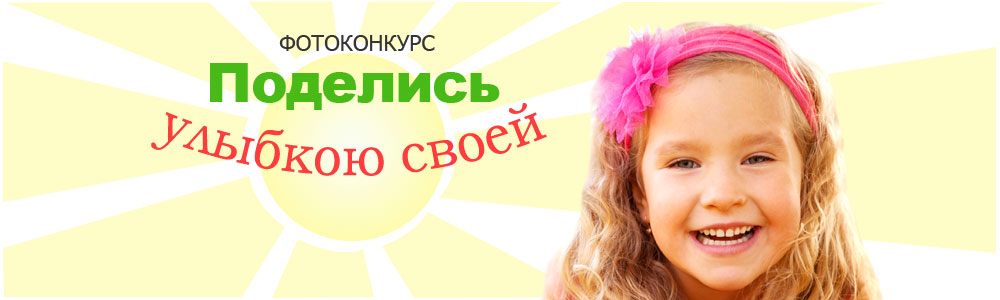
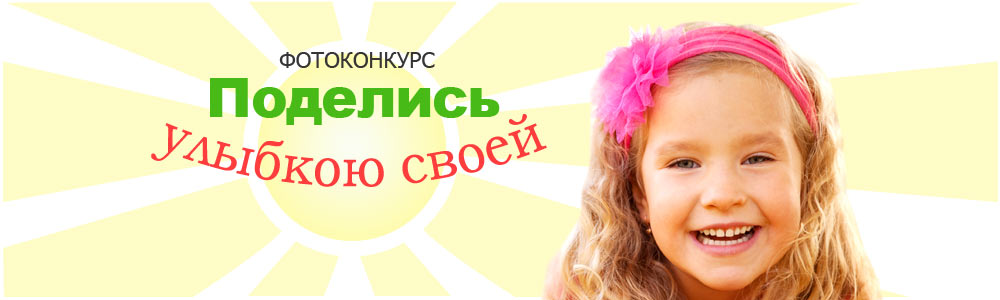
fix contest

diff --git a/stylesheets/global.css b/stylesheets/global.css
@@ -897,11 +897,11 @@ a.pseudo {text-decoration:none;border-bottom:1px dashed #0498b8;}
 #contest .section-banner .button-holder {position:absolute; left:162px;top:190px;} 
 #contest .section-banner .contest-error-hint {top:60px;margin-left:-130px;}
 #contest .section-banner {margin:-20px -30px 0;}
-#contest.contest-3 .section-banner .button-holder {position:absolute; left:216px;top:193px;}
-#contest.contest-3 .section-banner .contest-error-hint {top:85px;}
+#contest.contest-3 .section-banner .button-holder {position:absolute; left:218px;top:204px;}
+#contest.contest-3 .section-banner .contest-error-hint {top:80px;}
 #contest.contest-3 .section-banner .contest-button {
 	display:block;
-	padding: 4px 35px 4px;
+	padding: 0 35px;
 	font:bold 30px/74px Arial, Tahoma, Verdana, sans-serif;
 	color: #9a5203;
 	text-align: center;
@@ -930,7 +930,7 @@ a.pseudo {text-decoration:none;border-bottom:1px dashed #0498b8;}
 }
 .ie7 #contest.contest-3 .section-banner .contest-button:hover,
 .ie8 #contest.contest-3 .section-banner .contest-button:hover {filter: progid:DXImageTransform.Microsoft.gradient( startColorstr='#efeb61', endColorstr='#ebc701',GradientType=0 ); /* IE6-8 */}
[1 lines of base64/hex data omitted]
+
 
 .contest-nav {
 	position:relative;

diff --git a/html/social/contest/contest-3.html b/html/social/contest/contest-3.html
@@ -406,6 +406,25 @@
 					</ul>
 				</div>
 				<div class="contest-about clearfix">
+					<div class="contest-participant">
+						<img src="/images/contest/widget-3.jpg" alt="" calss="contest-title" />
+						<div class="img">
+							<a href="">
+								<img src="/images/example/gallery_album_img_01.jpg">
+								<span class="btn">Посмотреть</span>
+							</a>
+						<div class="item-title">Разнообразие десертов сицилийского стиля</div>
+						</div>
+						<div class="clearfix">
+							<div class="position">
+								<strong>18</strong> место
+							</div>
+							<div class="ball">
+								<div class="ball-count">186</div>
+								<div class="ball-text">баллов</div>
+							</div>
+						</div>
+					</div>
 					
 					<div class="sticker">
 						<big>Для участия в конкурсе Вам необходимо:</big>

diff --git a/stylesheets/common.css b/stylesheets/common.css
@@ -4766,14 +4766,14 @@ label {
 	position:relative;
 	border:1px solid #eeeded;
 	margin:-52px 0 55px;
-	padding:20px;
+	padding:5px 20px 20px;
 	text-align:center;
 }
 	.contest-participant h3 {
 		color:#252525;
 		font-size:22px;
 		font-weight:normal;
-		margin-bottom:5px;
+		margin:15px 0 5px;
 	}
 	.contest-participant .img {
 		display:block;
